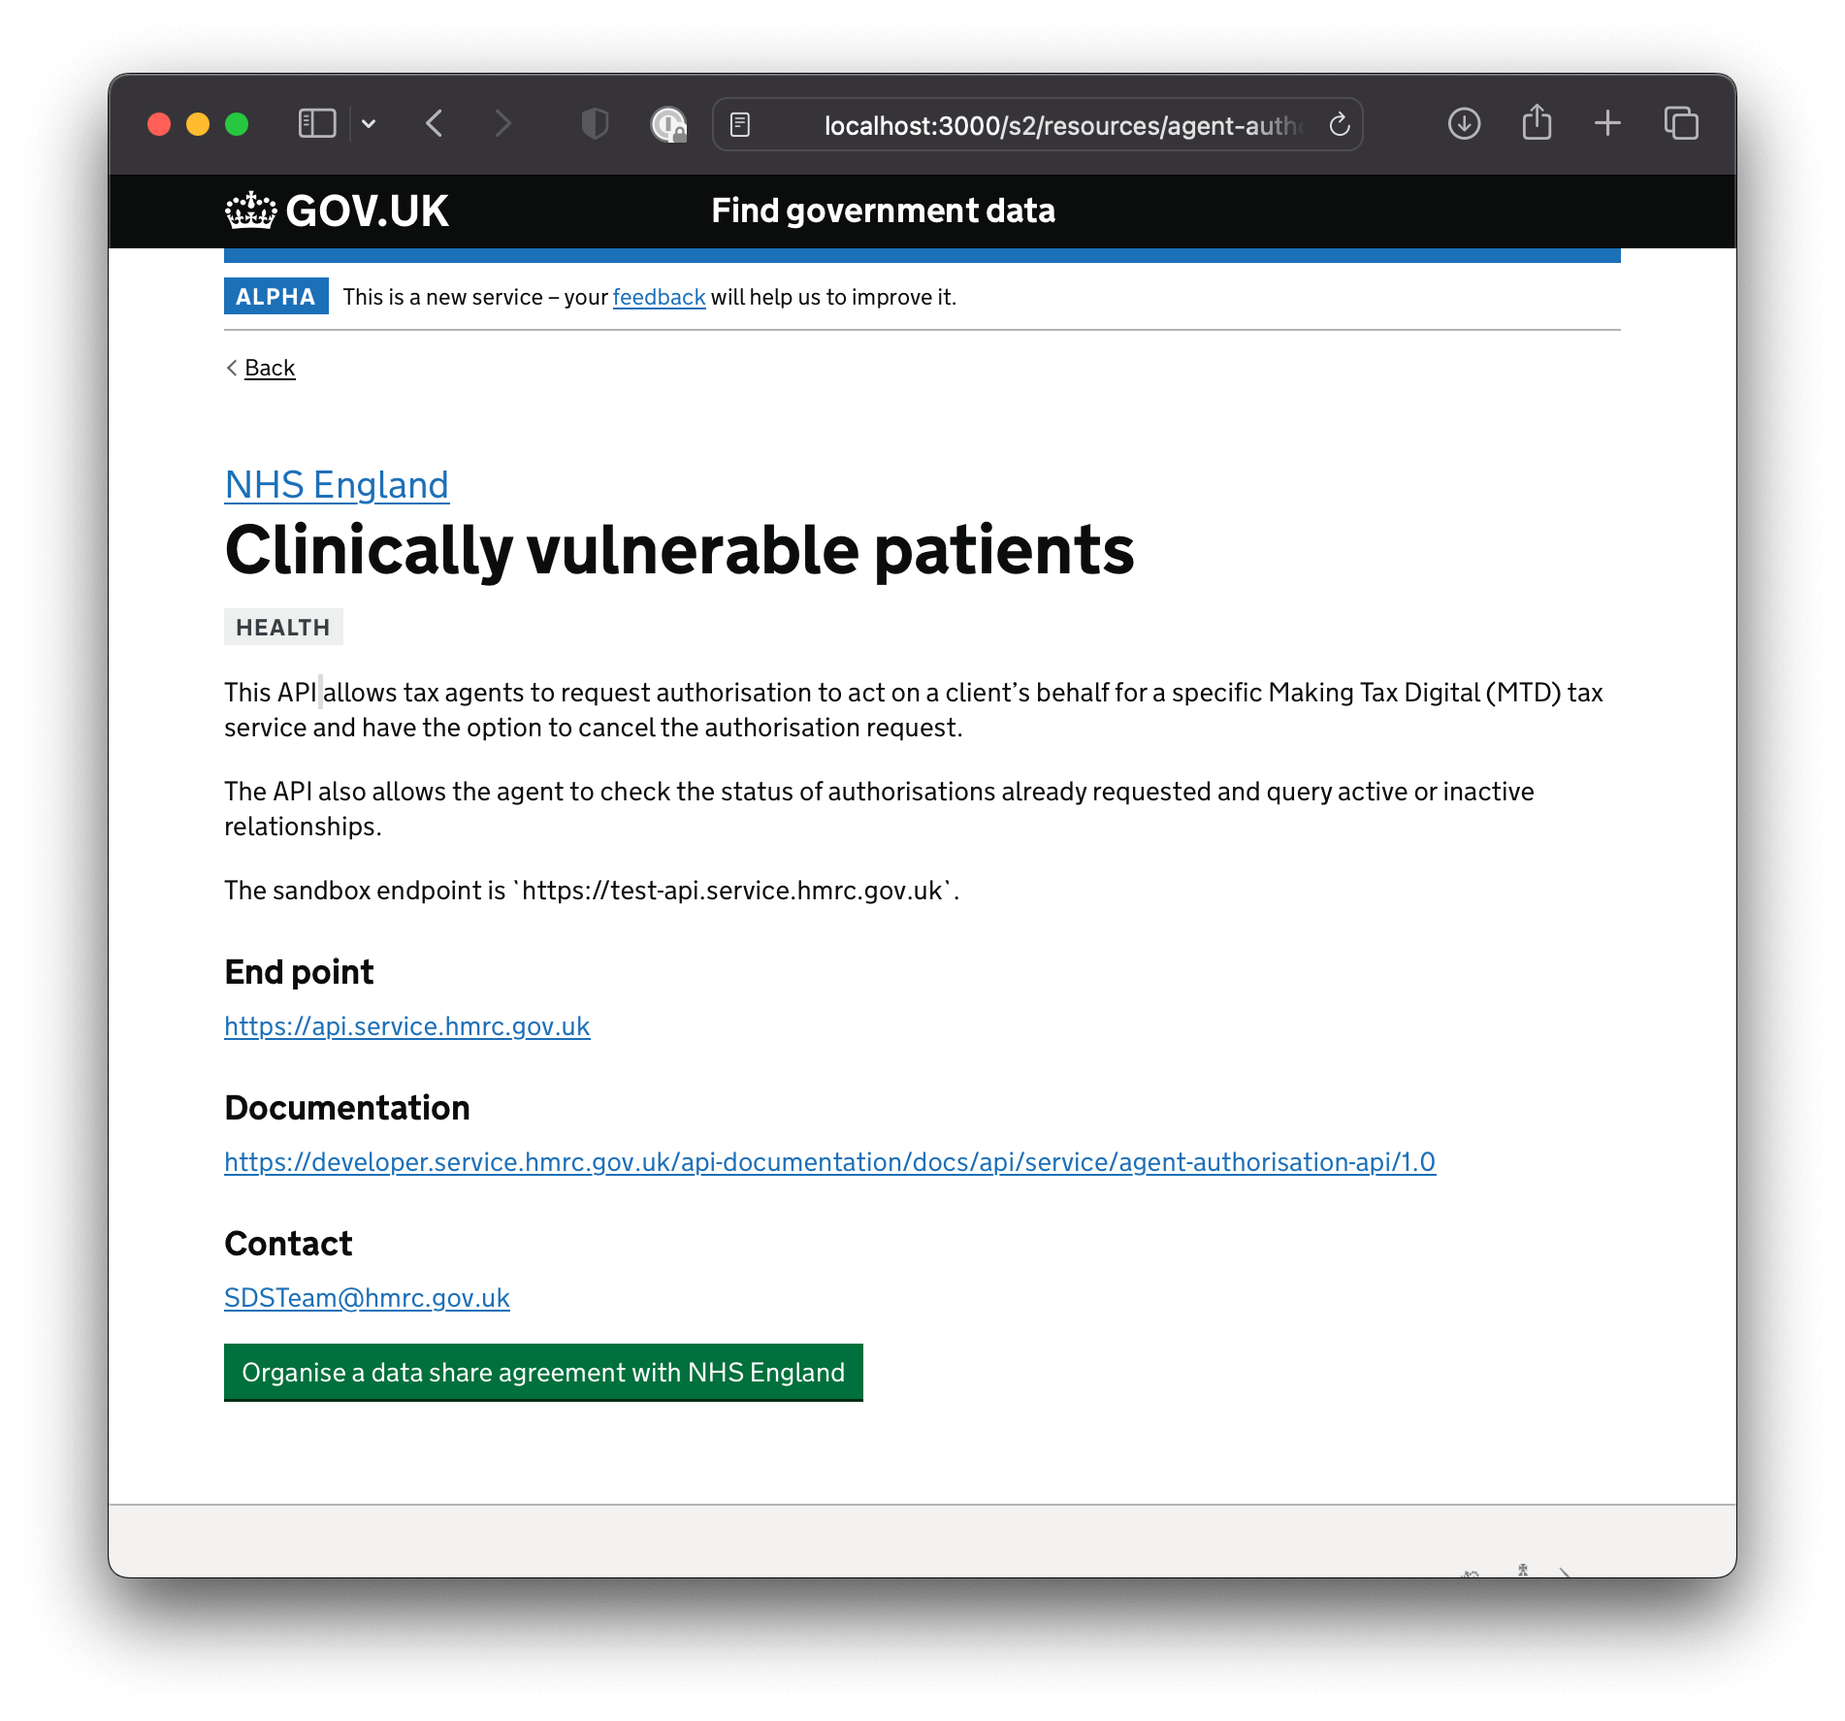
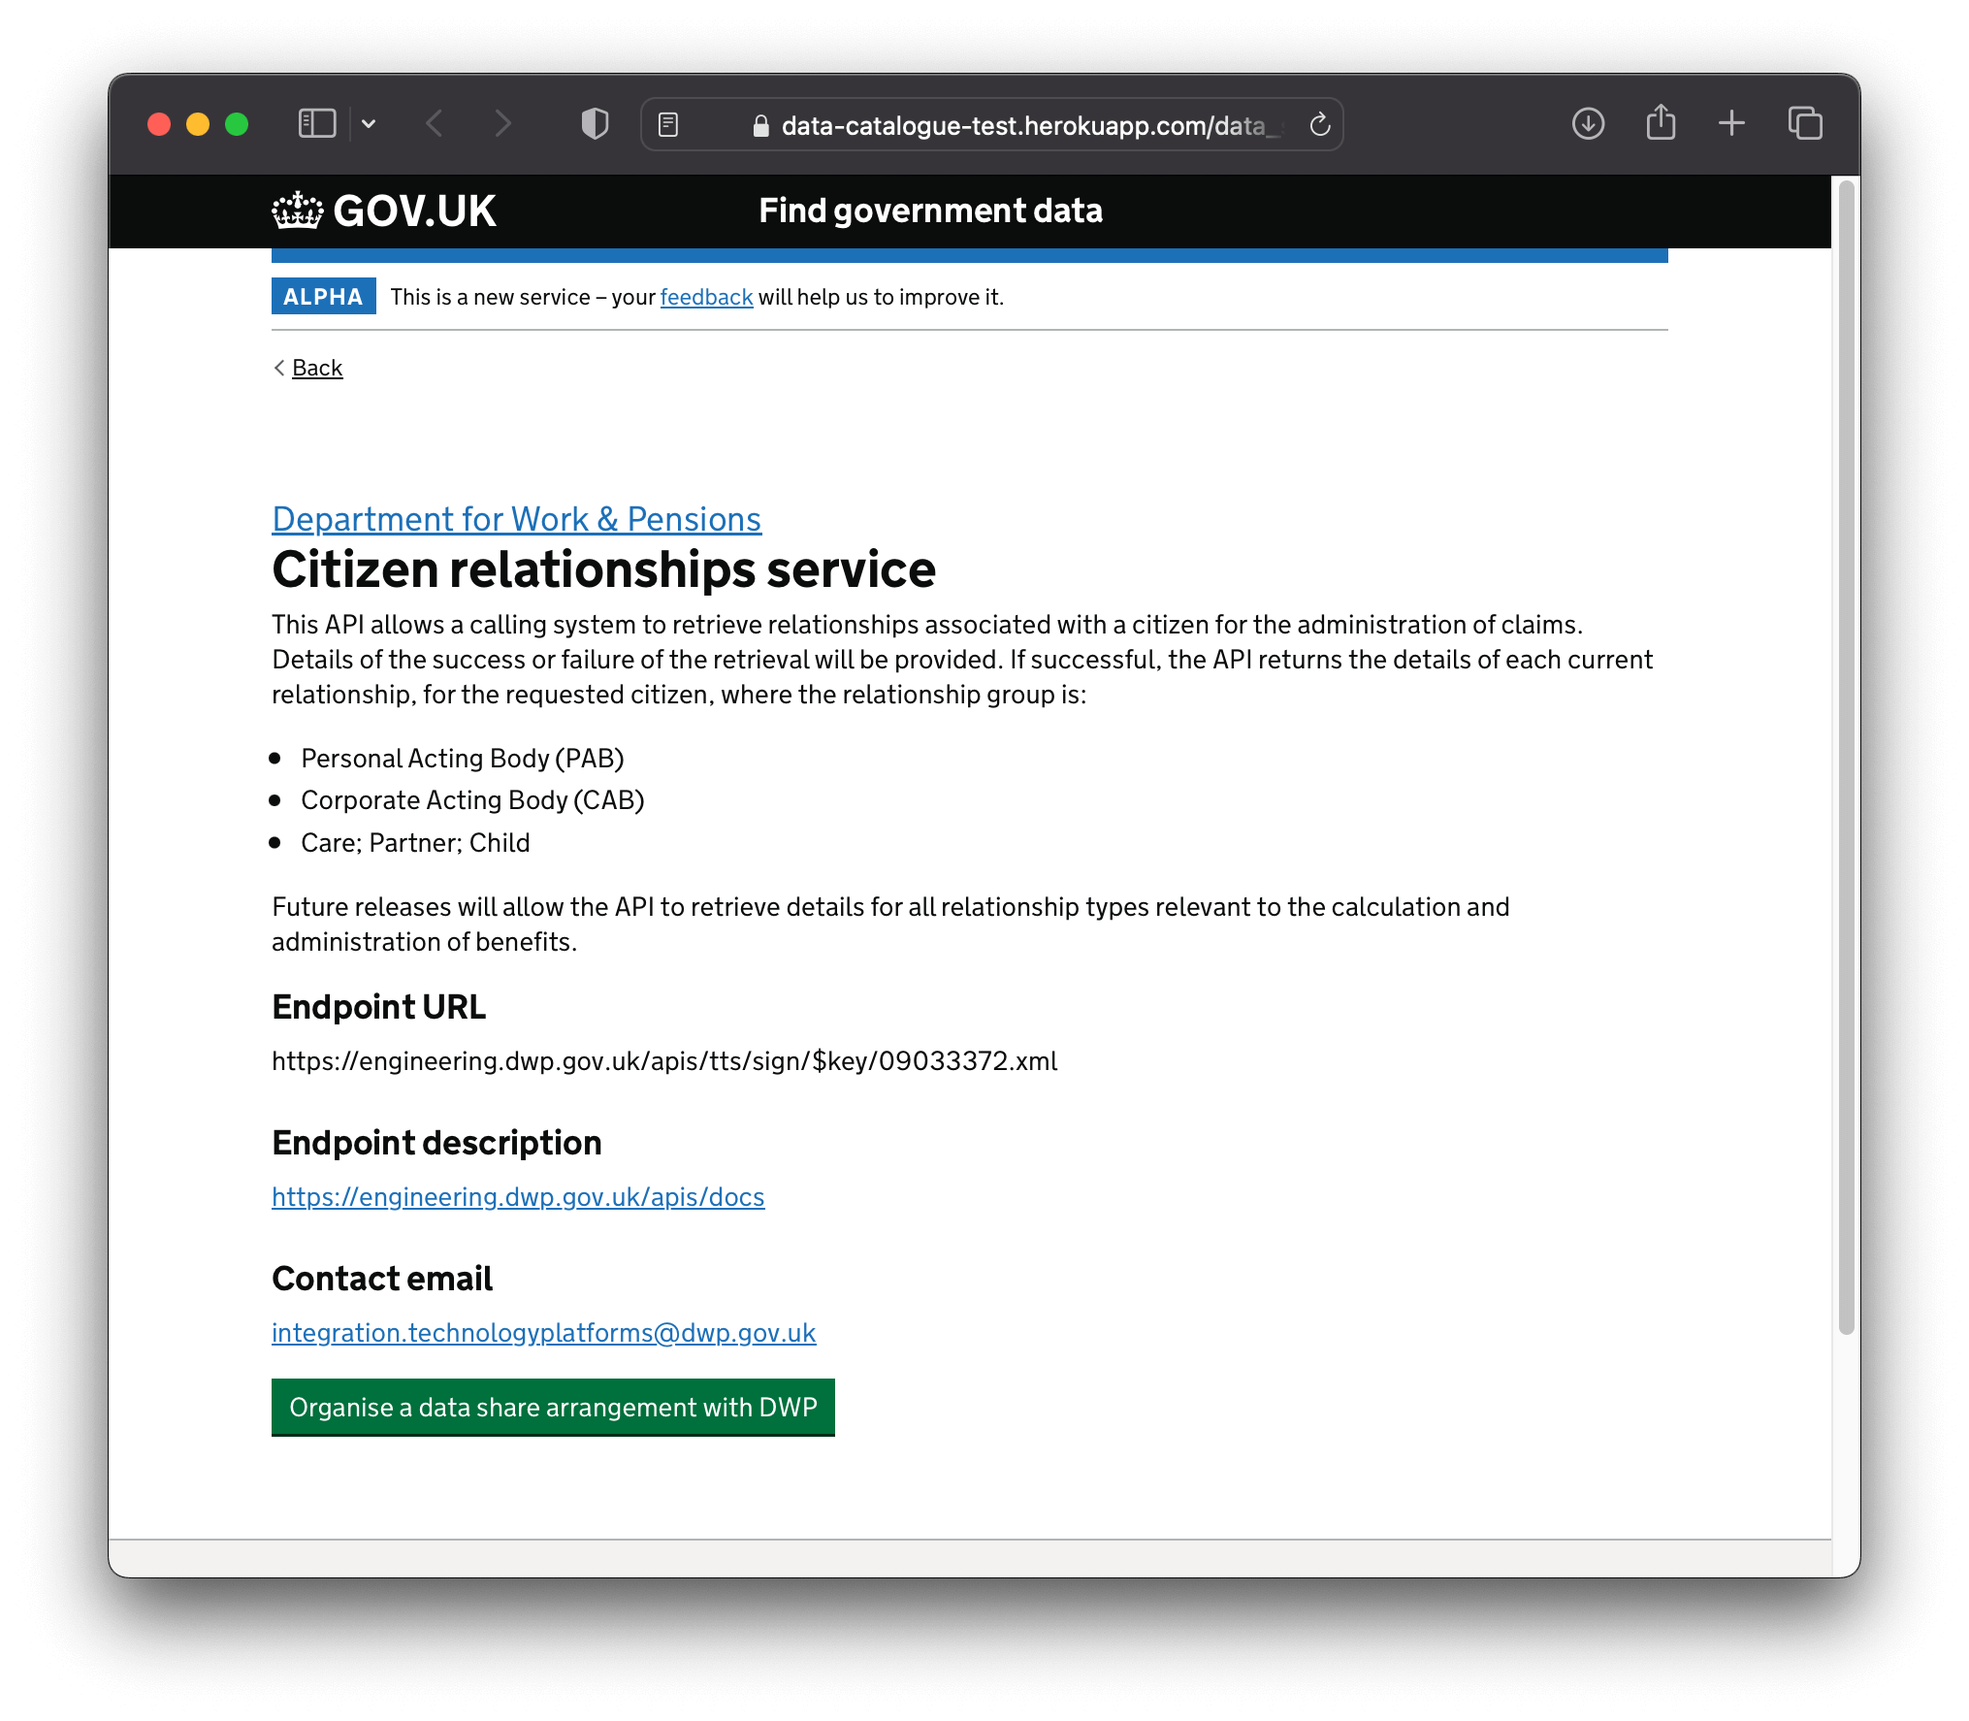
changes to set name "citizen relationships"

diff --git a/app/views/catalog.html b/app/views/catalog.html
@@ -1,0 +1,149 @@
+<html lang="en" class="govuk-template"><head>
+<link rel="icon" type="image/x-icon" href="/assets/favicon-6921a31b023a41929073393bdad00077436c3835994079bcd2e437261875b2fc.ico">
+<title>Data Catalogue</title>
+<meta name="viewport" content="width=device-width,initial-scale=1">
+<meta name="csrf-param" content="authenticity_token">
+<meta name="csrf-token" content="pSHMvEmvMPqBuMaoHhAw2GlVr3Sv2-TCleemhRAgpX48HFmzR0gx2r7EUo5Z2XH6xjyRcR6F8Ty8YnInnElmEQ">
+
+<link rel="stylesheet" href="/assets/application-2aba9fed1bd429eba23de0dee412cda3a3c065628bfd4b9d6dd9a0753705dbb6.css">
+<link rel="stylesheet" href="/assets/moj-frontend.min-971b11f6e3e813314b9bd20588a567133fb7ab0c364ce598bd87611825979349.css">
+<script src="/assets/application-7200ea837d6d5f0652a1a14abcf12b105e4c1a1c32f355ad028b1e6bc18262b5.js"></script>
+<script src="/assets/moj-frontend.min-b62599246bd78499374c9b219ea04a574378084b4dcb210b32d32133236ea02e.js"></script>
+    <script defer="" data-domain="data-catalogue-test.herokuapp.com" src="https://plausible.io/js/script.manual.js"></script>
+  <!-- define the `plausible` function to manually trigger events -->
+  <script>window.plausible = window.plausible || function() { (window.plausible.q = window.plausible.q || []).push(arguments) }</script>
+  <!-- trigger pageview -->
+  <script>
+      function prepareUrl(params) {
+      const url = new URL(location.href)
+      const queryParams = new URLSearchParams(location.search)
+      let customUrl = url.protocol + "//" + url.hostname + url.pathname.replace(/\/$/, '')
+      for (const paramName of params) {
+          const paramValue = queryParams.get(paramName)
+          if (paramValue) customUrl = customUrl + '/' + paramValue
+      }
+      return customUrl
+      }
+      plausible('pageview', { u: prepareUrl(["query"]) });
+  </script>
+
+</head>
+
+<body class="govuk-template__body govuk-body js-enabled">
+  <header class="govuk-header " role="banner" data-module="govuk-header">
+<div class="govuk-header__container govuk-width-container">
+  <div class="govuk-header__logo">
+    <a href="https://www.gov.uk/" class="govuk-header__link govuk-header__link--homepage" data-cy="govuk-header-link-homepage">
+      <span class="govuk-header__logotype">
+        <!--[if gt IE 8]><!-->
+        <svg aria-hidden="true" focusable="false" class="govuk-header__logotype-crown" data-cy="govuk-logo-crown" ,="" xmlns="http://www.w3.org/2000/svg" viewBox="0 0 132 97" height="30" width="36">
+          <path fill="currentColor" fill-rule="evenodd" d="M25 30.2c3.5 1.5 7.7-.2 9.1-3.7 1.5-3.6-.2-7.8-3.9-9.2-3.6-1.4-7.6.3-9.1 3.9-1.4 3.5.3 7.5 3.9 9zM9 39.5c3.6 1.5 7.8-.2 9.2-3.7 1.5-3.6-.2-7.8-3.9-9.1-3.6-1.5-7.6.2-9.1 3.8-1.4 3.5.3 7.5 3.8 9zM4.4 57.2c3.5 1.5 7.7-.2 9.1-3.8 1.5-3.6-.2-7.7-3.9-9.1-3.5-1.5-7.6.3-9.1 3.8-1.4 3.5.3 7.6 3.9 9.1zm38.3-21.4c3.5 1.5 7.7-.2 9.1-3.8 1.5-3.6-.2-7.7-3.9-9.1-3.6-1.5-7.6.3-9.1 3.8-1.3 3.6.4 7.7 3.9 9.1zm64.4-5.6c-3.6 1.5-7.8-.2-9.1-3.7-1.5-3.6.2-7.8 3.8-9.2 3.6-1.4 7.7.3 9.2 3.9 1.3 3.5-.4 7.5-3.9 9zm15.9 9.3c-3.6 1.5-7.7-.2-9.1-3.7-1.5-3.6.2-7.8 3.7-9.1 3.6-1.5 7.7.2 9.2 3.8 1.5 3.5-.3 7.5-3.8 9zm4.7 17.7c-3.6 1.5-7.8-.2-9.2-3.8-1.5-3.6.2-7.7 3.9-9.1 3.6-1.5 7.7.3 9.2 3.8 1.3 3.5-.4 7.6-3.9 9.1zM89.3 35.8c-3.6 1.5-7.8-.2-9.2-3.8-1.4-3.6.2-7.7 3.9-9.1 3.6-1.5 7.7.3 9.2 3.8 1.4 3.6-.3 7.7-3.9 9.1zM69.7 17.7l8.9 4.7V9.3l-8.9 2.8c-.2-.3-.5-.6-.9-.9L72.4 0H59.6l3.5 11.2c-.3.3-.6.5-.9.9l-8.8-2.8v13.1l8.8-4.7c.3.3.6.7.9.9l-5 15.4v.1c-.2.8-.4 1.6-.4 2.4 0 4.1 3.1 7.5 7 8.1h.2c.3 0 .7.1 1 .1.4 0 .7 0 1-.1h.2c4-.6 7.1-4.1 7.1-8.1 0-.8-.1-1.7-.4-2.4V34l-5.1-15.4c.4-.2.7-.6 1-.9zM66 92.8c16.9 0 32.8 1.1 47.1 3.2 4-16.9 8.9-26.7 14-33.5l-9.6-3.4c1 4.9 1.1 7.2 0 10.2-1.5-1.4-3-4.3-4.2-8.7L108.6 76c2.8-2 5-3.2 7.5-3.3-4.4 9.4-10 11.9-13.6 11.2-4.3-.8-6.3-4.6-5.6-7.9 1-4.7 5.7-5.9 8-.5 4.3-8.7-3-11.4-7.6-8.8 7.1-7.2 7.9-13.5 2.1-21.1-8 6.1-8.1 12.3-4.5 20.8-4.7-5.4-12.1-2.5-9.5 6.2 3.4-5.2 7.9-2 7.2 3.1-.6 4.3-6.4 7.8-13.5 7.2-10.3-.9-10.9-8-11.2-13.8 2.5-.5 7.1 1.8 11 7.3L80.2 60c-4.1 4.4-8 5.3-12.3 5.4 1.4-4.4 8-11.6 8-11.6H55.5s6.4 7.2 7.9 11.6c-4.2-.1-8-1-12.3-5.4l1.4 16.4c3.9-5.5 8.5-7.7 10.9-7.3-.3 5.8-.9 12.8-11.1 13.8-7.2.6-12.9-2.9-13.5-7.2-.7-5 3.8-8.3 7.1-3.1 2.7-8.7-4.6-11.6-9.4-6.2 3.7-8.5 3.6-14.7-4.6-20.8-5.8 7.6-5 13.9 2.2 21.1-4.7-2.6-11.9.1-7.7 8.8 2.3-5.5 7.1-4.2 8.1.5.7 3.3-1.3 7.1-5.7 7.9-3.5.7-9-1.8-13.5-11.2 2.5.1 4.7 1.3 7.5 3.3l-4.7-15.4c-1.2 4.4-2.7 7.2-4.3 8.7-1.1-3-.9-5.3 0-10.2l-9.5 3.4c5 6.9 9.9 16.7 14 33.5 14.8-2.1 30.8-3.2 47.7-3.2z"></path>
+        </svg>
+        <!--<![endif]-->
+        <!--[if IE 8]>
+        <img src="/assets/images/govuk-logotype-crown.png" class="govuk-header__logotype-crown-fallback-image" width="36" height="32">
+        <![endif]-->
+        <span class="govuk-header__logotype-text" ,="" data-cy="govuk-logo-text">
+          GOV.UK
+        </span>
+      </span>
+    </a>
+  </div>
+  <div class="govuk-header__content">
+    <a href="/" class="govuk-header__link govuk-header__service-name" ,="" data-cy="govuk-header-service-name">
+      Find government data
+    </a>
+  </div>
+</div>
+</header>
+
+  <div class="govuk-width-container">
+    <div class="govuk-phase-banner">
+<p class="govuk-phase-banner__content" data-cy="govuk-phase-bannner-content">
+  <strong class="govuk-tag govuk-phase-banner__content__tag">
+    alpha
+  </strong>
+  <span class="govuk-phase-banner__text">
+    This is a new service – your <a class="govuk-link" href="https://docs.google.com/forms/d/e/1FAIpQLSex0i-T25DWr2a2yT4R-s42BPhxGbwZzqrROY6cj4TJqzyWjA/viewform" data-cy="govuk-phase-bannner-link">feedback</a> will help us to improve it.
+  </span>
+</p>
+</div>
+
+<a class="govuk-back-link" data-cy="govuk-back-link" href="javascript:history.back()">Back</a>
+
+<main class="govuk-main-wrapper">
+<p class="govuk-caption-l">
+  <a class="govuk-link" href="#dept">Department for Work &amp; Pensions</a>
+</p>
+
+<h1 class="govuk-heading-l govuk-!-margin-bottom-1" data-cy="data-service-Citizen relationships service-name">Citizen relationships service</h1>
+
+<p class="govuk-body">This API allows a calling system to retrieve relationships associated with a citizen for the administration of claims. Details of the success or failure of the retrieval will be provided. If successful, the API returns the details of each current relationship, for the requested citizen, where the relationship group is:</p>
+
+<ul class="govuk-list govuk-list--bullet">
+ <li>Personal Acting Body (PAB)</li>
+ <li>Corporate Acting Body (CAB)</li>
+ <li>Care; Partner; Child</li>
+</ul>
+
+<p>Future releases will allow the API to retrieve details for all relationship types relevant to the calculation and administration of benefits.</p>
+
+
+<dl>
+  <dt class="govuk-heading-m govuk-!-margin-bottom-2">Endpoint URL</dt>
+<dd class="govuk-body govuk-!-margin-left-0" data-cy="data-service-endpoint-url">
+https://engineering.dwp.gov.uk/apis/tts/sign/$key/09033372.xml
+</dd>
+
+  <dt class="govuk-heading-m govuk-!-margin-bottom-2">Endpoint description</dt>
+<dd class="govuk-body govuk-!-margin-left-0" data-cy="data-service-endpoint-description">
+<a class="govuk-link" href="https://engineering.dwp.gov.uk/apis/docs">https://engineering.dwp.gov.uk/apis/docs</a>
+</dd>
+
+  <dt class="govuk-heading-m govuk-!-margin-bottom-2">Contact email</dt>
+<dd class="govuk-body govuk-!-margin-left-0" data-cy="data-service-contact-email">
+<a class="govuk-link" href="&lt;a%20href=%22mailto:integration.technologyplatforms@dwp.gov.uk%22&gt;integration.technologyplatforms@dwp.gov.uk&lt;/a&gt;"></a><a href="mailto:integration.technologyplatforms@dwp.gov.uk">integration.technologyplatforms@dwp.gov.uk</a>
+</dd>
+
+
+</dl>
+
+
+
+<a class="govuk-button" data-module="govuk-button">
+Organise a data share arrangement with DWP
+</a>
+
+
+
+
+    </main>
+  </div>
+  <script src="https://code.jquery.com/jquery-3.6.0.min.js" integrity="sha256-/xUj+3OJU5yExlq6GSYGSHk7tPXikynS7ogEvDej/m4=" crossorigin="anonymous"></script>
+  <script src="/assets/moj-frontend.min-b62599246bd78499374c9b219ea04a574378084b4dcb210b32d32133236ea02e.js"></script>
+  <script>
+    window.MOJFrontend.initAll();
+  </script>
+
+
+<footer class="govuk-footer " role="contentinfo">
+<div class="govuk-width-container ">
+  <div class="govuk-footer__meta">
+    <div class="govuk-footer__meta-item govuk-footer__meta-item--grow">
+        <h2 class="govuk-visually-hidden">Footer links</h2>
+      <svg aria-hidden="true" focusable="false" class="govuk-footer__licence-logo" ,="" data-cy="govuk-footer-licence-logo" xmlns="http://www.w3.org/2000/svg" viewBox="0 0 483.2 195.7" height="17" width="41">
+        <path fill="currentColor" d="M421.5 142.8V.1l-50.7 32.3v161.1h112.4v-50.7zm-122.3-9.6A47.12 47.12 0 0 1 221 97.8c0-26 21.1-47.1 47.1-47.1 16.7 0 31.4 8.7 39.7 21.8l42.7-27.2A97.63 97.63 0 0 0 268.1 0c-36.5 0-68.3 20.1-85.1 49.7A98 98 0 0 0 97.8 0C43.9 0 0 43.9 0 97.8s43.9 97.8 97.8 97.8c36.5 0 68.3-20.1 85.1-49.7a97.76 97.76 0 0 0 149.6 25.4l19.4 22.2h3v-87.8h-80l24.3 27.5zM97.8 145c-26 0-47.1-21.1-47.1-47.1s21.1-47.1 47.1-47.1 47.2 21 47.2 47S123.8 145 97.8 145"></path>
+      </svg>
+      <span class="govuk-footer__licence-description" ,="" data-cy="govuk-footer-licence-description">
+          All content is available under the
+          <a class="govuk-footer__link" data-cy="govuk-footer-licence-link" href="https://www.nationalarchives.gov.uk/doc/open-government-licence/version/3/" rel="license">Open Government Licence v3.0</a>, except where otherwise stated
+      </span>
+    </div>
+    <div class="govuk-footer__meta-item">
+      <a class="govuk-footer__link govuk-footer__copyright-logo" data-cy="govuk-footer-copyright-logo" href="https://www.nationalarchives.gov.uk/information-management/re-using-public-sector-information/uk-government-licensing-framework/crown-copyright/">© Crown copyright</a>
+    </div>
+  </div>
+</div>
+</footer>
+
+</body></html>

diff --git a/app/views/khadija-authenticated/015-messages.html b/app/views/khadija-authenticated/015-messages.html
@@ -27,7 +27,7 @@
   </thead>
   <tbody class="govuk-table__body">
     <tr class="govuk-table__row">
-      <th scope="row" class="govuk-table__header"><a href="/khadija-authenticated/200-request-start">Department X is requesting access to clinically vulnerable patient data.</a></th>
+      <th scope="row" class="govuk-table__header"><a href="/khadija-authenticated/200-request-start">Department X is requesting access to citizen relationships data.</a></th>
       <td class="govuk-table__cell">20 Feb 2023</td>
     </tr>
     <tr class="govuk-table__row">

diff --git a/app/views/khadija-authenticated/030-what-gateway-cat.html b/app/views/khadija-authenticated/030-what-gateway-cat.html
@@ -21,7 +21,7 @@
   <h1 class="govuk-label-wrapper">
     <span class="govuk-caption-l">{% include "includes/cat-search-label.html" %}</span>
     <label class="govuk-label govuk-label--l" for="more-detail">
-      What legal gateway allows NHS England to share this data with you?
+      What legal gateway allows the Department for Work & Pensions to share this data with you?
     </label>
   </h1>
   <div id="more-detail-hint" class="govuk-hint">

diff --git a/app/views/khadija-authenticated/035-shares.html b/app/views/khadija-authenticated/035-shares.html
@@ -44,7 +44,7 @@
         </ul>
       </td>
       <td class="govuk-table__cell">
-        <p>To provide targeted support to vulnerable people while they shield.</p>
+        <p>To assess claims and provide the correct level of support to vulnerable people based on their declared family relationships.</p>
       </td>
       <td class="govuk-table__cell">
         <strong class="govuk-tag govuk-tag--red">

diff --git a/app/views/khadija-authenticated/200-review-request-wizard.html b/app/views/khadija-authenticated/200-review-request-wizard.html
@@ -20,7 +20,7 @@
     <div class="govuk-grid-column-two-thirds">
       <span class="govuk-caption-l">Review sharing request</span>
       <h1 class="govuk-heading-l">
-        Review Department X's request to access clinically vulnerable patient data 
+        Review Department X's request to access citizen relationships data 
       </h1>
     </div>
     <div class="govuk-grid-column-one-third">

diff --git a/app/views/khadija-authenticated/200-review-request.html b/app/views/khadija-authenticated/200-review-request.html
@@ -20,7 +20,7 @@
     <div class="govuk-grid-column-two-thirds">
       <span class="govuk-caption-l">In progress agreements</span>
       <h1 class="govuk-heading-l">
-        Review Department X's request to access clinically vulnerable patient data 
+        Review Department X's request to access citizen relationships data 
       </h1>
     </div>
     <div class="govuk-grid-column-one-third">

diff --git a/app/views/khadija-authenticated/200-request-start.html b/app/views/khadija-authenticated/200-request-start.html
@@ -23,7 +23,7 @@
   <div class="govuk-grid-column-two-thirds">
     <span class="govuk-caption-l">Review sharing request</span>
     <h1 class="govuk-heading-l">
-      Department X is requesting access to clinically vulnerable patient data.
+      Department X is requesting access to citizen relationships data.
     </h1>
 
     <h2 class="govuk-heading-m govuk-!-static-margin-bottom-1">

diff --git a/app/views/khadija-authenticated/200-review-request-cat.html b/app/views/khadija-authenticated/200-review-request-cat.html
@@ -20,7 +20,7 @@
     <div class="govuk-grid-column-two-thirds">
       <span class="govuk-caption-l">In progress agreements</span>
       <h1 class="govuk-heading-l">
-        Review your request to access clinically vulnerable patient data 
+        Review your request to access citizen relationships data 
       </h1>
     </div>
     <div class="govuk-grid-column-one-third">

diff --git a/app/views/khadija-authenticated/020-before-start-cat.html b/app/views/khadija-authenticated/020-before-start-cat.html
@@ -17,7 +17,7 @@
 
       <span class="govuk-caption-l">Prepare to request a data share</span>
       <h1 class="govuk-heading-l">
-        Request clinically vulnerable patient data
+        Request citizen relationships data
       </h1>
 
       <p class="govuk-body">You will be asked several questions, to make sure...</p>

diff --git a/app/views/khadija-authenticated/020-tasks-cat.html b/app/views/khadija-authenticated/020-tasks-cat.html
@@ -17,7 +17,7 @@
 
       <span class="govuk-caption-l">{% include "includes/cat-search-label.html" %}</span>
       <h1 class="govuk-heading-l">
-        Clinically vulnerable patient data
+        Citizen relationships data
       </h1>
 
       <h2 class="govuk-heading-m">
